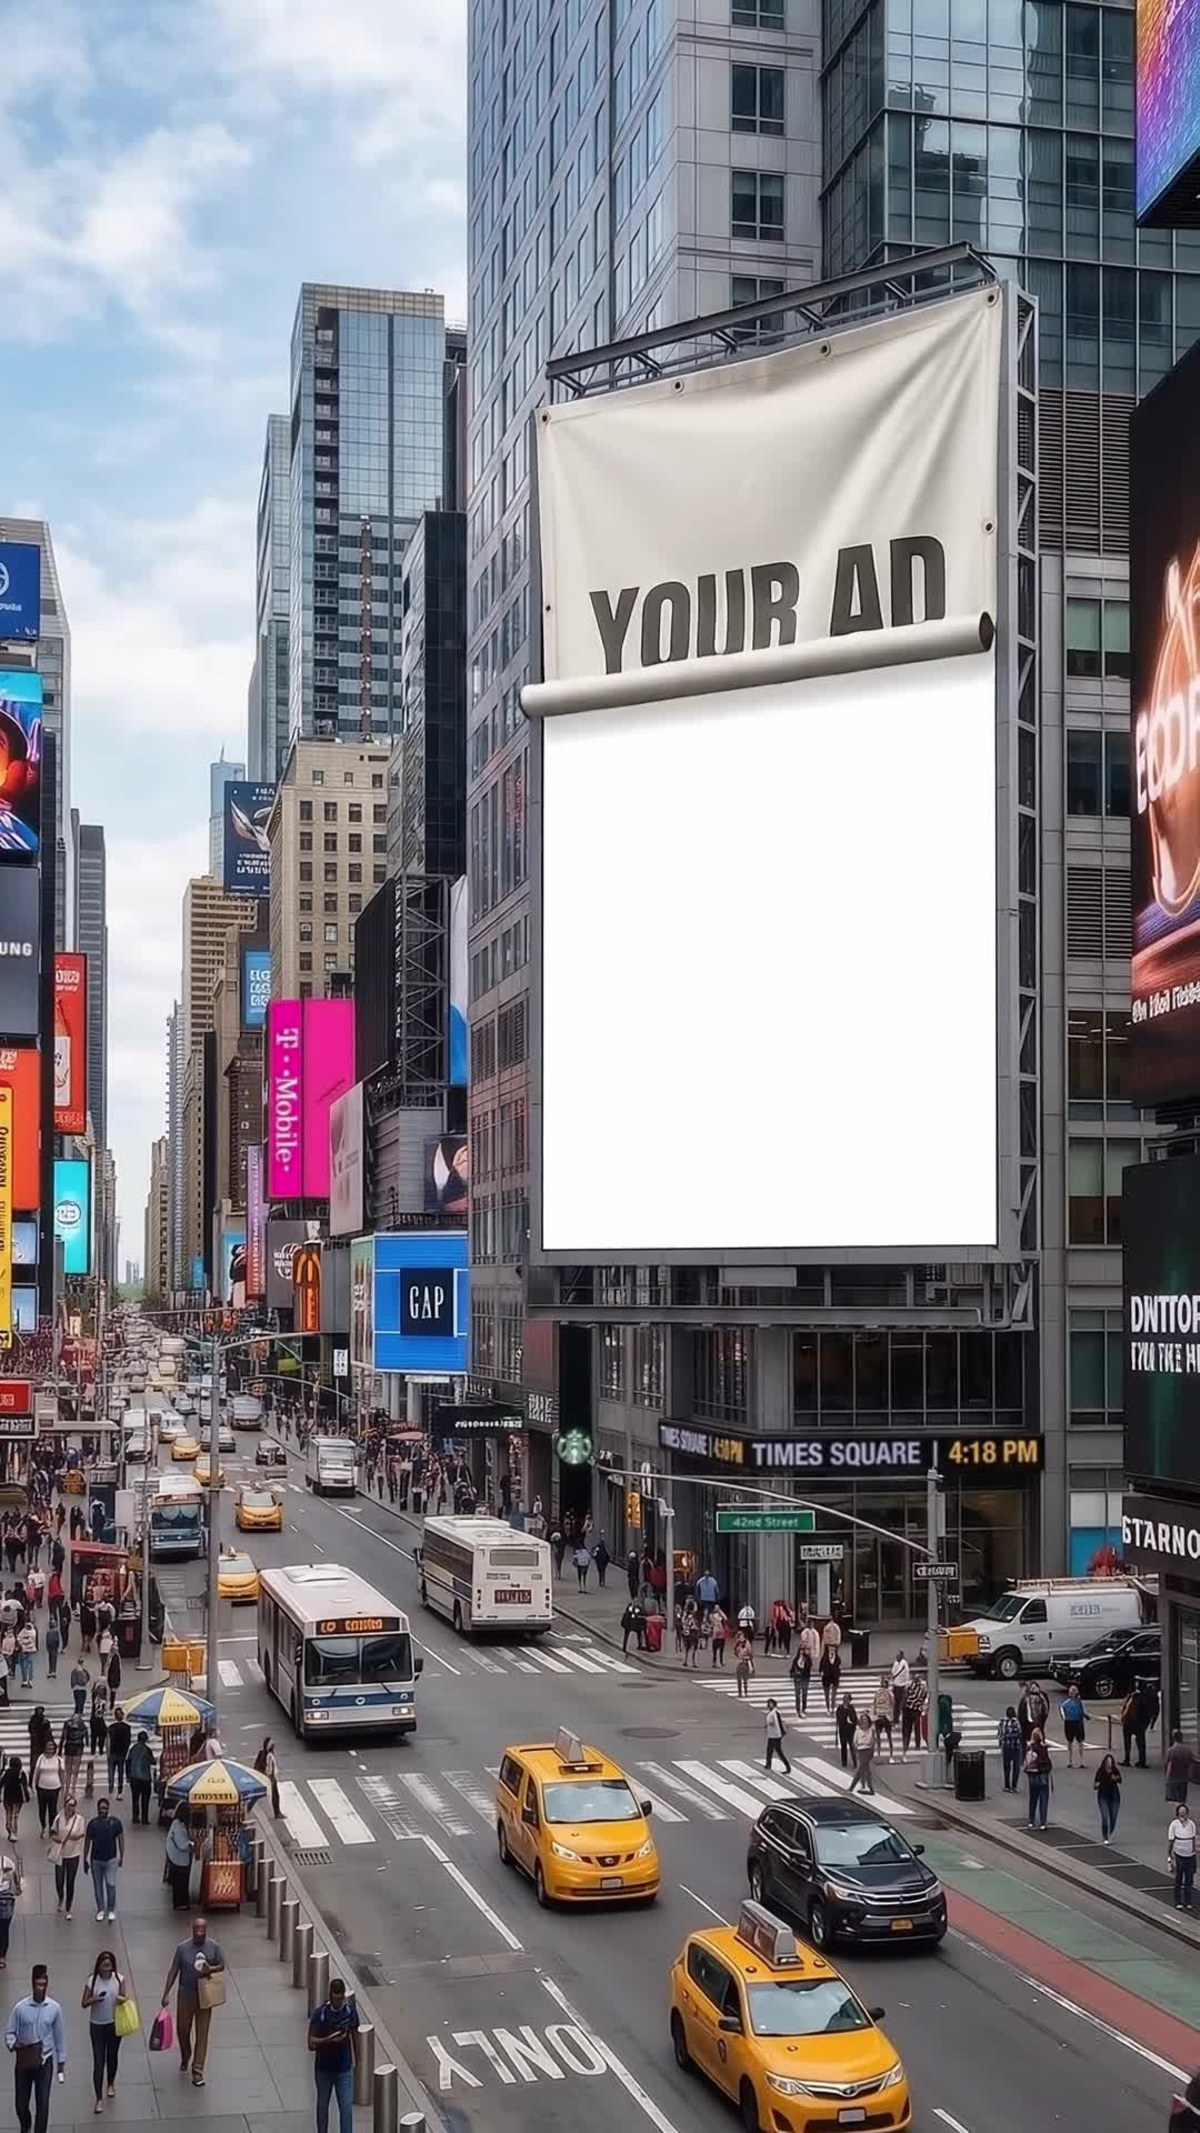
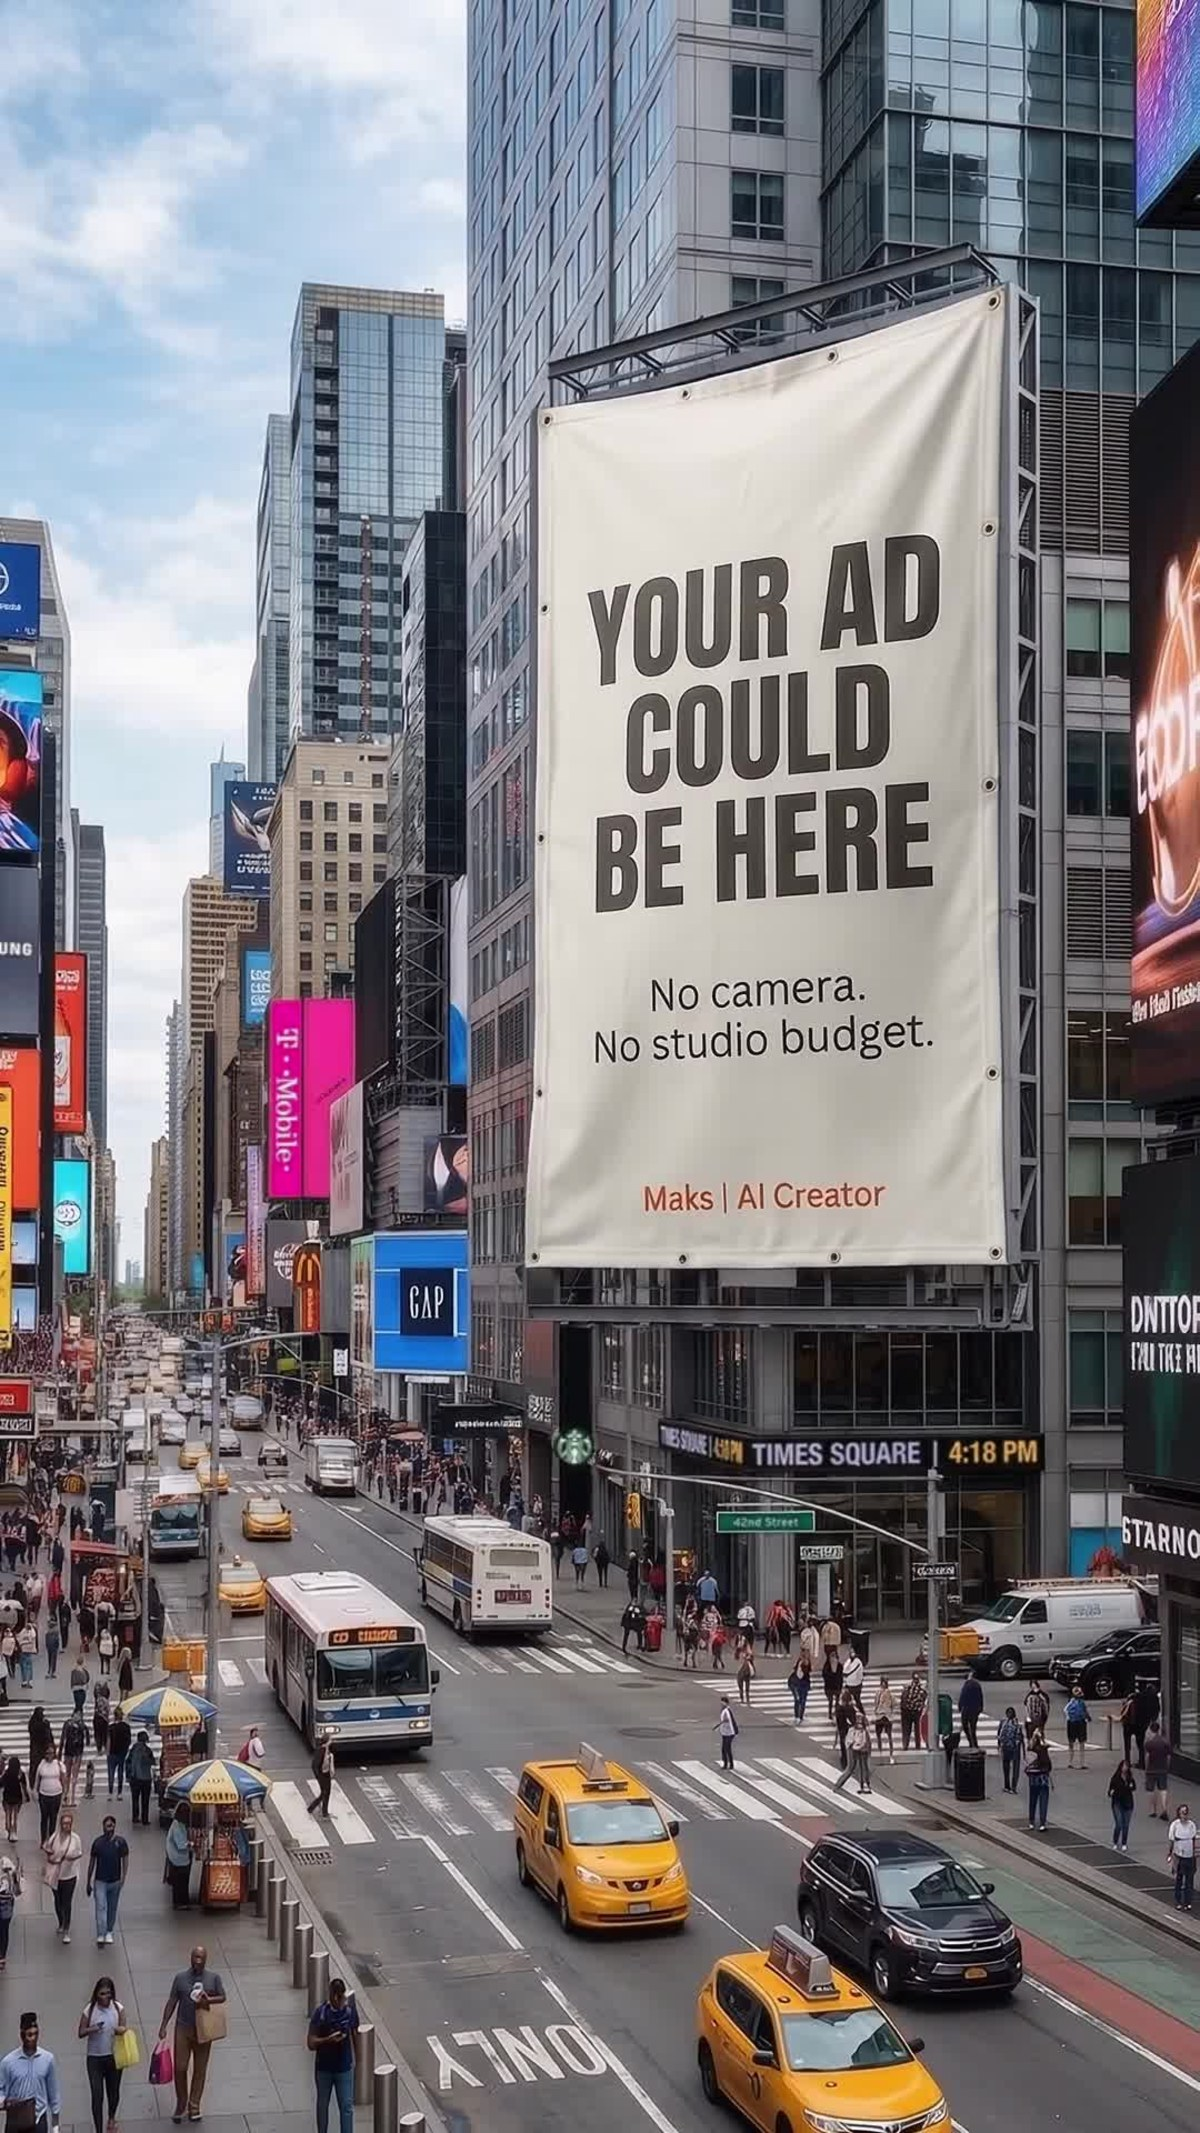
Update Times Square cover preview to fully unrolled billboard frame (7s)

diff --git a/index.html b/index.html
@@ -891,7 +891,7 @@
           data-tools='["Nano Banana Pro", "Omni Flash", "Photoshop"]'>
           <div>
             <div class="portfolio-card-img-wrapper relative">
-              <img src="https://res.cloudinary.com/ath6yflf/video/upload/so_2.0,f_jpg,q_auto:best,w_1200/v1788989332/Street_add_2.jpg" alt="Times Square — FOOH CGI Billboard Takeover">
+              <img src="https://res.cloudinary.com/ath6yflf/video/upload/so_7.0,f_jpg,q_auto:best,w_1200/v1788989332/Street_add_2.jpg" alt="Times Square — FOOH CGI Billboard Takeover">
               <div class="absolute inset-0 flex items-center justify-center bg-black/30 group-hover:bg-black/20 transition-colors">
                 <div class="play-btn-glass">
                   <svg class="w-5 h-5 text-white" fill="currentColor" viewBox="0 0 24 24"><path d="M9.5 6.5L16.5 12L9.5 17.5z"/></svg>

diff --git a/public/scroll-foto/index.html b/public/scroll-foto/index.html
@@ -882,7 +882,7 @@
           data-tools='["Nano Banana Pro", "Omni Flash", "Photoshop"]'>
           <div>
             <div class="portfolio-card-img-wrapper relative">
-              <img src="https://res.cloudinary.com/ath6yflf/video/upload/so_2.0,f_jpg,q_auto:best,w_1200/v1788989332/Street_add_2.jpg" alt="Times Square — FOOH CGI Billboard Takeover">
+              <img src="https://res.cloudinary.com/ath6yflf/video/upload/so_7.0,f_jpg,q_auto:best,w_1200/v1788989332/Street_add_2.jpg" alt="Times Square — FOOH CGI Billboard Takeover">
               <div class="absolute inset-0 flex items-center justify-center bg-black/30 group-hover:bg-black/20 transition-colors">
                 <div class="play-btn-glass">
                   <svg class="w-5 h-5 text-white" fill="currentColor" viewBox="0 0 24 24"><path d="M9.5 6.5L16.5 12L9.5 17.5z"/></svg>
